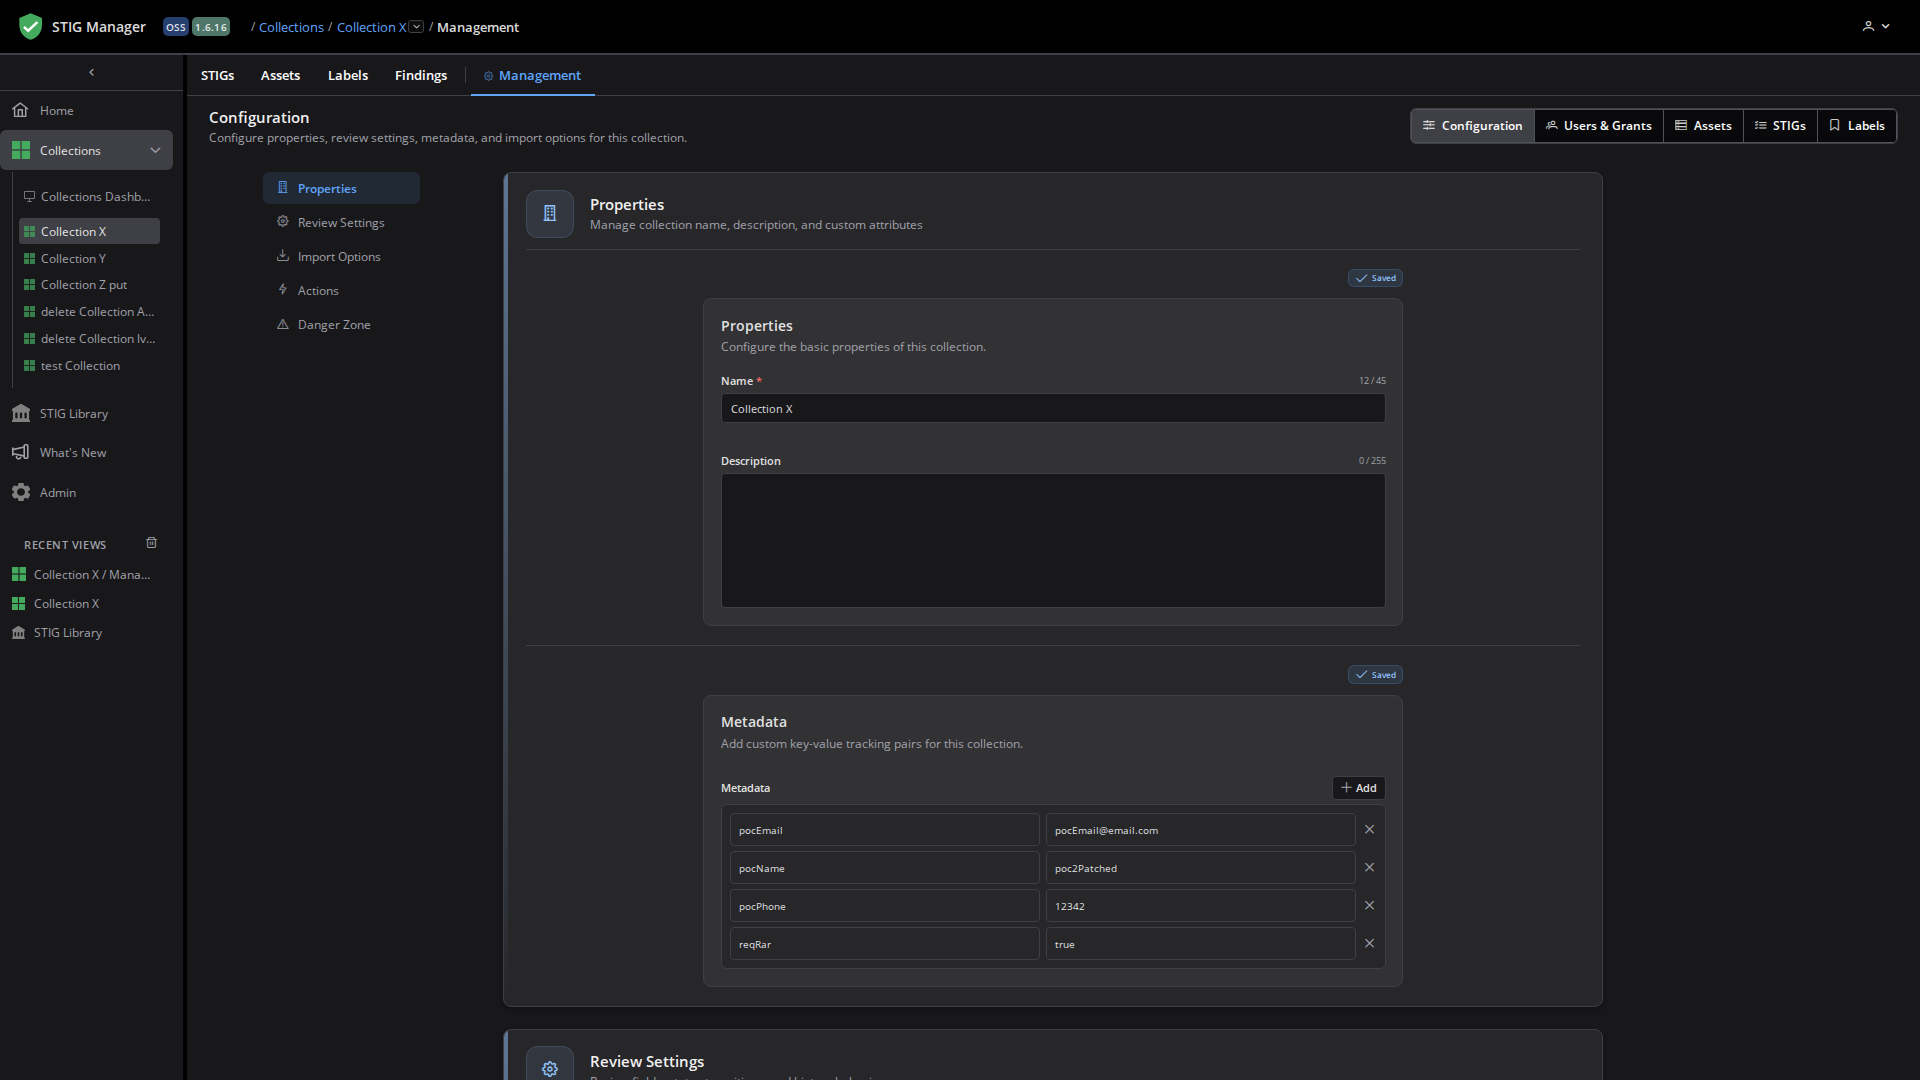
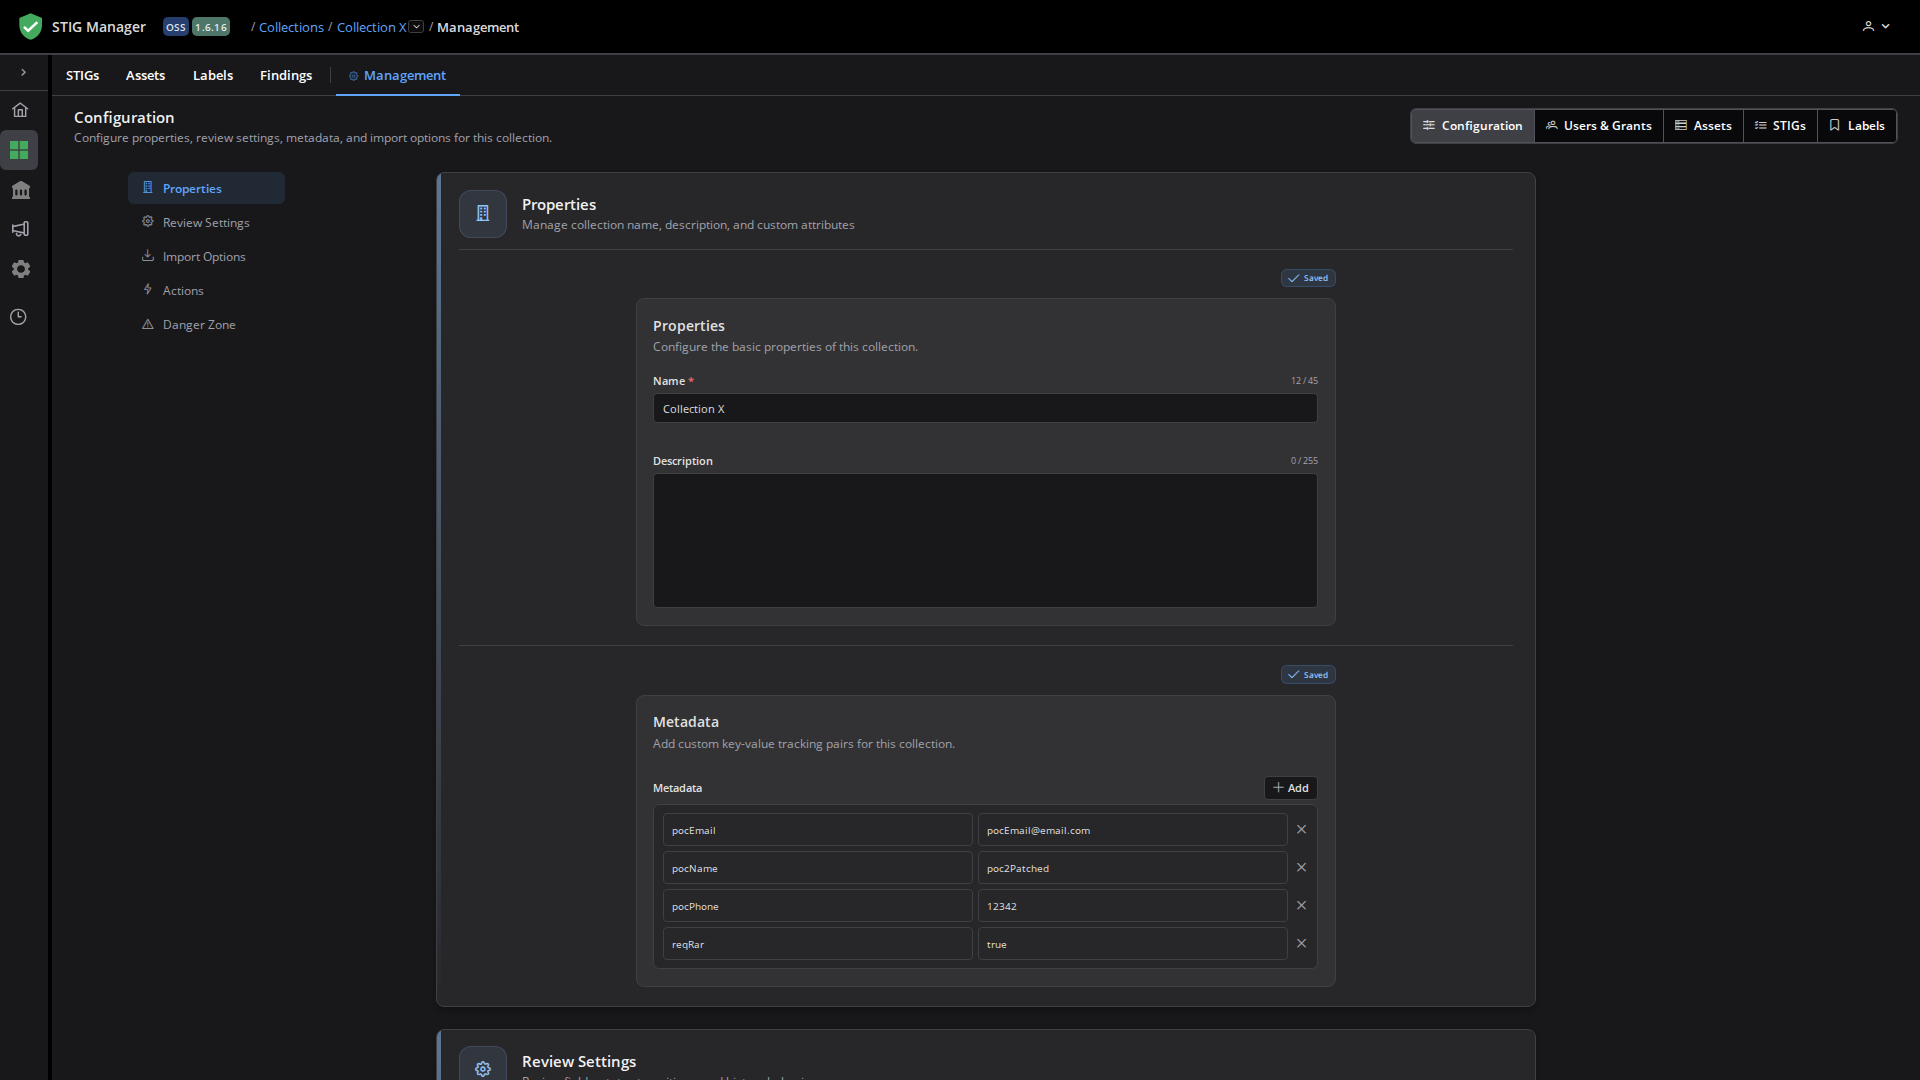
docs/screenshots: raw copies of highlighted captures, Nav Rail collapsed by default with per-entry override

diff --git a/docs/screenshots/README.md b/docs/screenshots/README.md
@@ -47,7 +47,9 @@ Steps are `[op, ...args]` with ops `goto`, `click`, `dblclick`, `hover`, `fill`,
 
 `clip` captures one element; `clipPad` adds pixels of surrounding context. Dashboards animate their charts for about a second after data arrives, so those entries set a longer `settleMs`.
 
-Highlights are anchored to selectors, so they follow the element when the layout changes. Shapes are `ellipse` (default), `box`, and `arrow`; an optional `label` prints text beside the shape.
+The Nav Rail is collapsed for every entry unless it sets `rail: 'expanded'`, so the content stays the focus. Its state persists in the browser, so the tool resets it before each entry.
+
+Highlights are anchored to selectors, so they follow the element when the layout changes. Shapes are `ellipse` (default), `box`, and `arrow`; an optional `label` prints text beside the shape. Every entry with highlights also writes an unannotated copy to `raw/` (git-ignored, regenerated on each run) so indicators can be redone by hand in an image editor.
 
 ## Determinism
 
